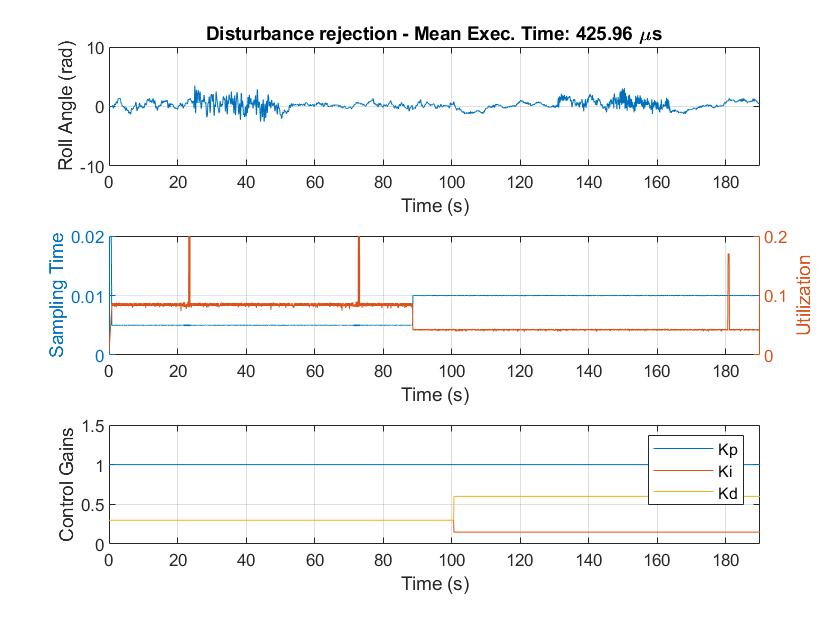
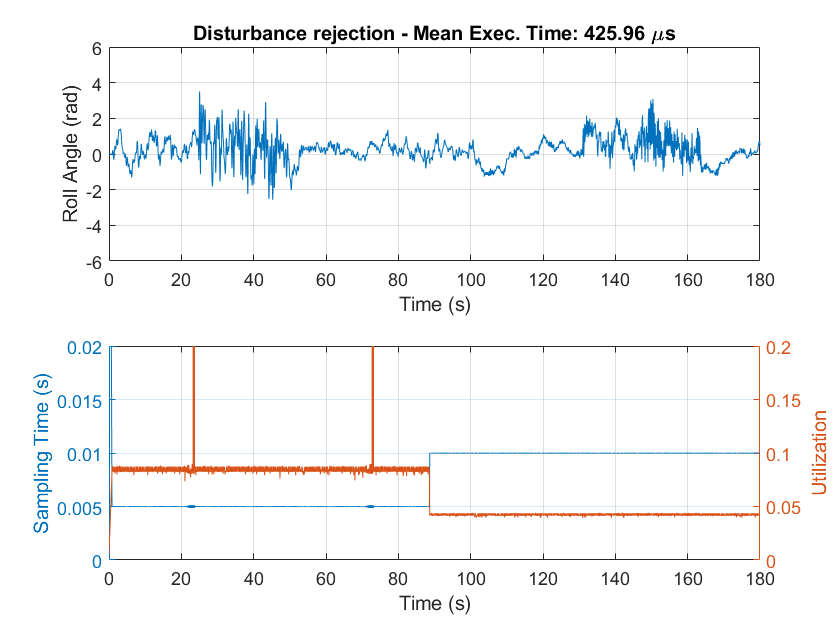
Updated some images. Added the a Python script with a simplified version of the supervisory controller algorithm.

diff --git a/scripts/plot_experiments_samplingtime.m b/scripts/plot_experiments_samplingtime.m
@@ -1,8 +1,8 @@
 % Ensayos cambiando las ganancias y h
 %load('../logs/ensayo_real_1.mat')
-%load('../logs/ensayo_real_2.mat'); tmax=300; % Sin Adaptacion
-%load('../logs/ensayo_real_3.mat'); tmax=190; % Adaptacion OK
-load('../logs/ensayo_real_4.mat'); tmax=170; % Adaptacion No OK
+load('../logs/ensayo_real_2.mat'); tmax=180; %tmax=300; % Sin Adaptacion
+%load('../logs/ensayo_real_3.mat'); tmax=180; %tmax=190; % Adaptacion OK
+%load('../logs/ensayo_real_4.mat'); tmax=170; % Adaptacion No OK
 
 time = (reshape(time,1,length(time)));
 base_time = 0;
@@ -26,20 +26,20 @@ min_exec_time = min(exec_time);
 u = exec_time(1:end-1)./dt;
 
 figure()
-subplot(3,1,1)
+subplot(2,1,1)
 plot(normalized_time, roll(:,1)-mean(roll(:,1)))
 %legend('roll1','roll2')
 xlabel('Time (s)')
 ylabel('Roll Angle (rad)')
 title(['Disturbance rejection - Mean Exec. Time: ', num2str(mean_exec_time*1e6,'%0.2f'), ' \mus'])
-ylim([-10,10])
+ylim([-6,6])
 xlim([0,tmax])
 grid on
 
-subplot(3,1,2)
+subplot(2,1,2)
 yyaxis left
 plot(normalized_time(1:end-1), dt)
-ylabel('Sampling Time')
+ylabel('Sampling Time (s)')
 xlabel('Time (s)')
 ylim([0,0.02])
 xlim([0,tmax])
@@ -50,11 +50,11 @@ ylim([0,0.2])
 %legend('Sample','Utilization')
 grid on
 
-subplot(3,1,3)
-plot(normalized_time, [Kp,Ki,Kd])
-legend('Kp','Ki','Kd')
-xlabel('Time (s)')
-ylabel('Control Gains')
-ylim([0,1.5])
-xlim([0,tmax])
-grid on
+% subplot(3,1,3)
+% plot(normalized_time, [Kp,Ki,Kd])
+% legend('Kp','Ki','Kd')
+% xlabel('Time (s)')
+% ylabel('Control Gains')
+% ylim([0,1.5])
+% xlim([0,tmax])
+% grid on

diff --git a/scripts/plot_sensitivity_analysis.m b/scripts/plot_sensitivity_analysis.m
@@ -1,0 +1,40 @@
+% Ensayos cambiando las ganancias y h
+T = readtable('../logs/Table1_overleaf.csv','NumHeaderLines',1);  % skips the first row of data
+T = table2array(T);
+[nc, nr] = size(T);
+k = 1:nc;
+
+hfbs   = T(:,1);
+Jroll  = T(:,2);
+Jpitch = T(:,3);
+Jyaw   = T(:,4);
+Jtotal = T(:,5);
+Jqs    = T(:,6);
+Jc     = T(:,7);
+xlabels_table = {};
+for i = k
+    xlabels_table{end+1} = hfbs(i);
+end
+
+figure()
+subplot(2,1,1)
+plot(k, [Jroll,Jpitch,Jyaw,Jtotal],'-s',MarkerSize=6)
+legend({'J_{c,roll}','J_{c,pitch}','J_{c,yaw}','J_{c,total}'},'Orientation','horizontal')
+xlabel('h_{fbs} (s)')
+ylabel('Attitude cost functions')
+xticks(k)
+xticklabels(xlabels_table)
+title('Sensitivity analysis - Cost functions at T_{sim}')
+grid on
+
+subplot(2,1,2)
+yyaxis left
+plot(k, Jqs,'-s',MarkerSize=6)
+ylabel('Queue-Server cost J_{qs}')
+xlabel('h_{fbs} (s)')
+yyaxis right
+plot(k, Jc,'-s',MarkerSize=6)
+ylabel('Total cost J_{c}')
+xticks(k)
+xticklabels(xlabels_table)
+grid on
